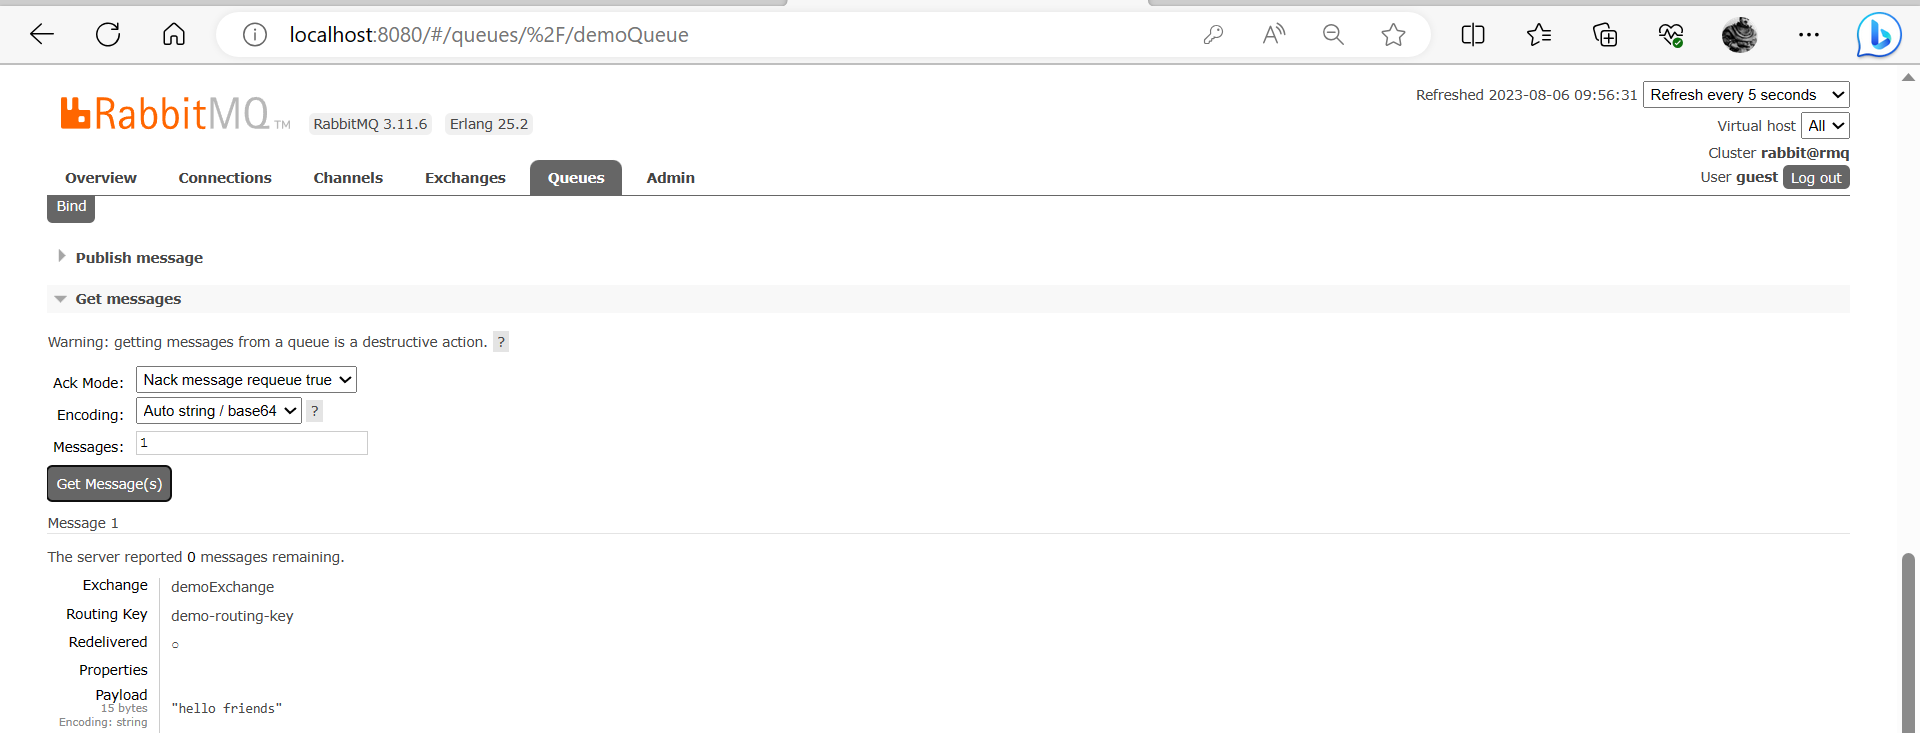
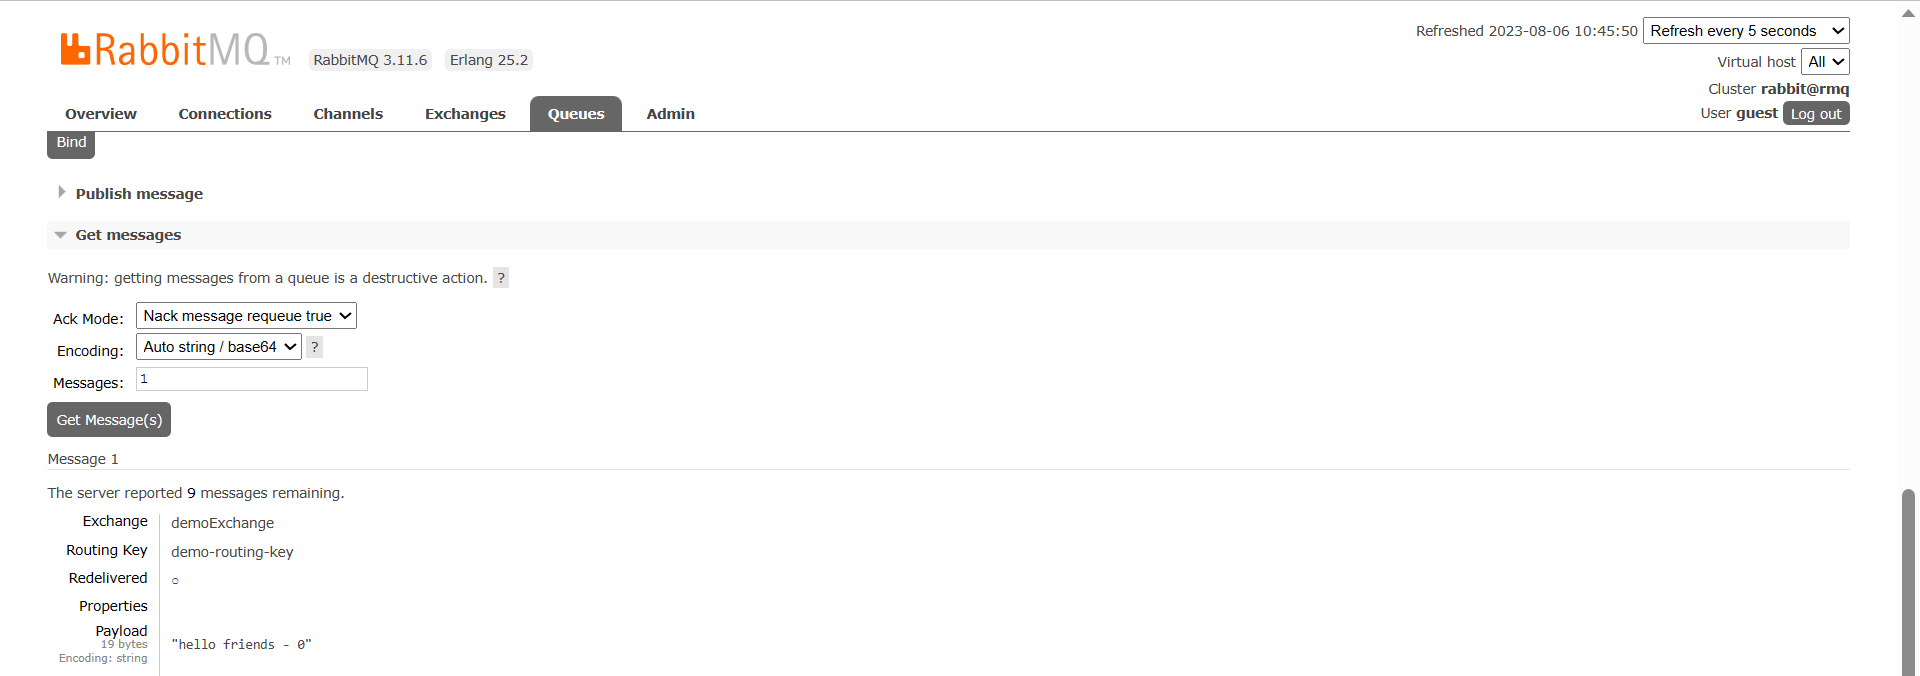
receiver 2

diff --git a/AirlineApp/MessageQueueHandler/MessageQueueReceiver.cs b/AirlineApp/MessageQueueHandler/MessageQueueReceiver.cs
@@ -1,6 +1,5 @@
 using RabbitMQ.Client;
 using RabbitMQ.Client.Events;
-using System.Text;
 
 namespace MessageQueueHandler
 {
@@ -12,12 +11,14 @@ namespace MessageQueueHandler
 
         private IModel _channel { get; set; }
         private EventingBasicConsumer _consumer { get; set; }
+        private EventHandler<BasicDeliverEventArgs> _eventHandler { get; set; }
 
-        public MessageQueueReceiver(string routingKey, string queueName, string exchangeName)
+        public MessageQueueReceiver(string routingKey, string queueName, string exchangeName, EventHandler<BasicDeliverEventArgs> eventHandler)
         {
             _exchangeName = exchangeName;
             _routingKey = routingKey;
             _queueName = queueName;
+            _eventHandler = eventHandler;
 
             SetChannel();
             SetConsumer();
@@ -38,14 +39,7 @@ namespace MessageQueueHandler
         private void SetConsumer()
         {
             _consumer = new EventingBasicConsumer(_channel);
-
-            _consumer.Received += (sender, args) =>
-            {
-                var body = args.Body.ToArray();
-                var message = Encoding.UTF8.GetString(body);
-                Console.WriteLine($"new message : {message}");
-                _channel.BasicAck(args.DeliveryTag, multiple: false);
-            };
+            _consumer.Received += _eventHandler;
         }
 
         private void SetChannel()

diff --git a/AirlineApp/RabbitSender/Program.cs b/AirlineApp/RabbitSender/Program.cs
@@ -1,12 +1,19 @@
-// See https://aka.ms/new-console-template for more information
-using MessageQueueHandler;
+using MessageQueueHandler;
 
 Console.WriteLine("Rabbit Sender");
 
 var messageQueueSender = new MessageQueueSender("demoExchange", "demo-routing-key", "demoQueue");
 
-for (int i = 0; i < 10; i++)
-{
-    messageQueueSender.Send($"hello friends - {i}");
-}
+messageQueueSender.Send($"Message sent by server");
+
+//var messageQueueSender = new MessageQueueSender("demoExchange", "demo-routing-key", "demoQueue");
+
+//for (int i = 0; i < 100; i++)
+//{
+//    messageQueueSender.Send($"hello friends - {i}");
+//    Thread.Sleep(1000);
+//}
+
+
+
 messageQueueSender.Close();

diff --git a/AirlineApp/RabbitReceiver2/Program.cs b/AirlineApp/RabbitReceiver2/Program.cs
@@ -2,14 +2,14 @@
 using RabbitMQ.Client.Events;
 using System.Text;
 
-Console.WriteLine("RabbitMQ receiver 1");
+Console.WriteLine("RabbitMQ receiver 2");
 
 EventHandler<BasicDeliverEventArgs> messageReceivedEventHandler = (sender, args) =>
 {
-    Task.Delay(TimeSpan.FromSeconds(5)).Wait();
+    Task.Delay(TimeSpan.FromSeconds(2)).Wait();
     byte[] body = args.Body.ToArray();
     string message = Encoding.UTF8.GetString(body);
-    Console.WriteLine($"New message : {message}");
+    Console.WriteLine($"New message : {message} processed by receiver 2");
     //_channel.BasicAck(args.DeliveryTag, multiple: false);
 };
 

diff --git a/README.md b/README.md
@@ -35,7 +35,7 @@ RabbitMQ.Client
 docker run -d --hostname rmq --name rabbit-server -p 8080:15672 -p 5672:5672 rabbitmq:3-management
 ```
 
-- go to http://localhost:8080 and see the message waiting in the queue
+- run the sender and go to http://localhost:8080/#/queues and see the message waiting in the queue
 <img src="/pictures/message.png" title="message in queue"  width="900">
 
 
